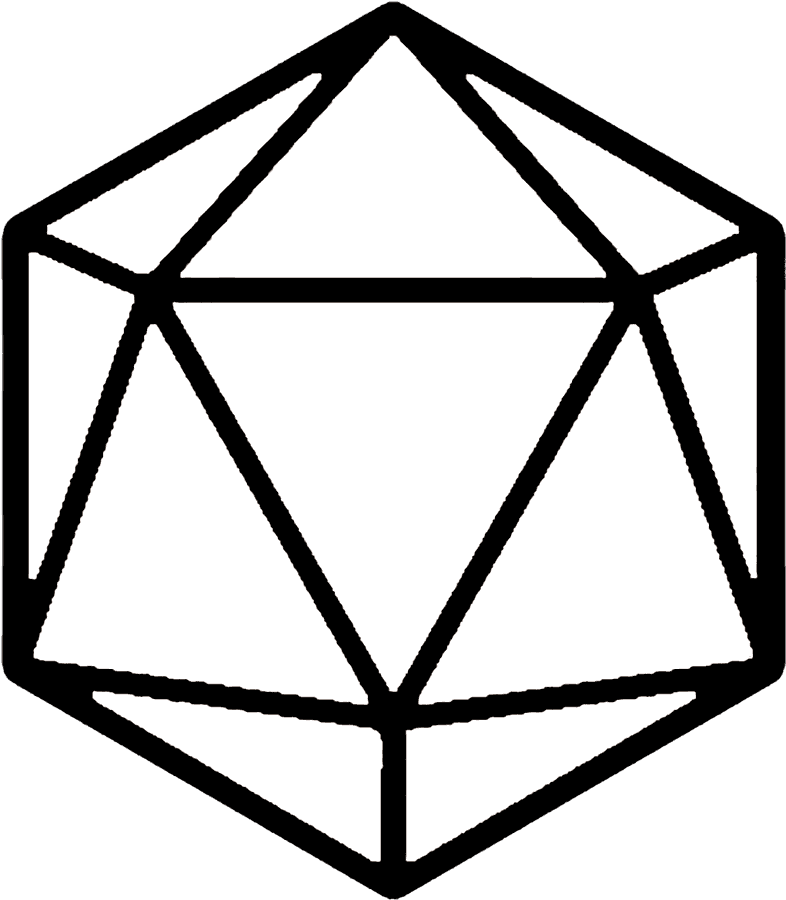
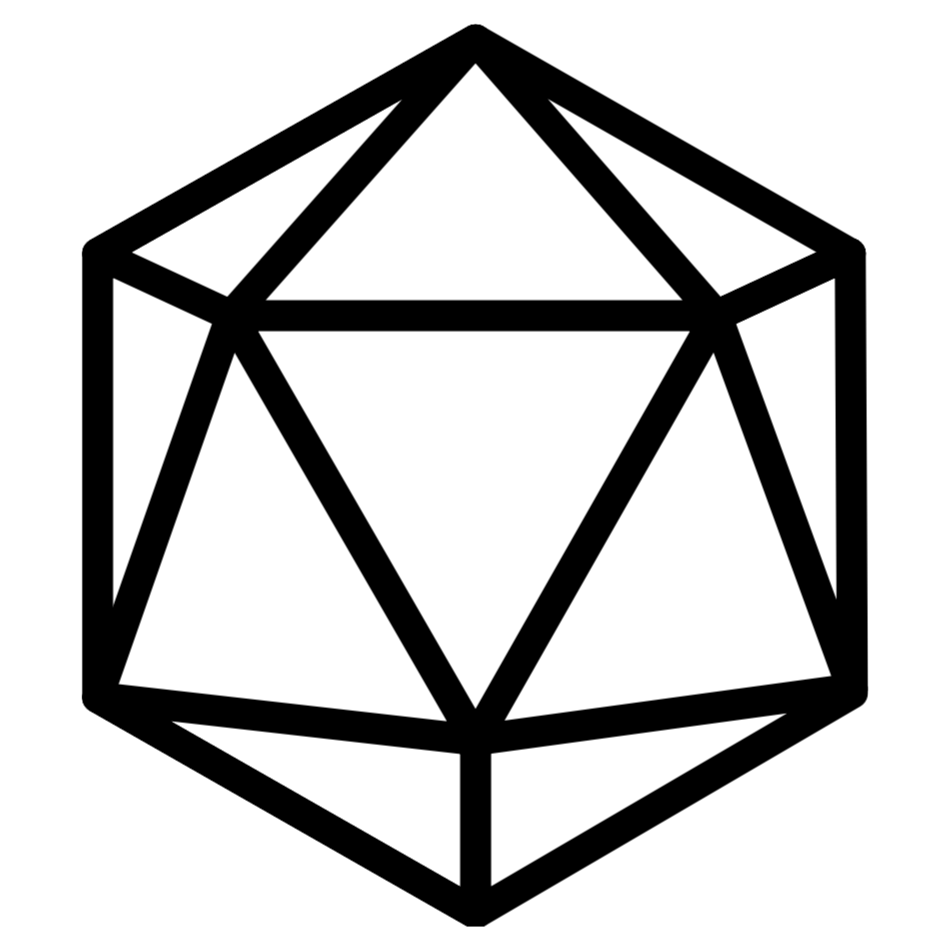
feat: progresso na pagina inicial

diff --git a/public/style.css b/public/style.css
@@ -176,7 +176,57 @@ body{
     height: 100%;
 }
 
+.pers-geral{
+    display: flex;
+    flex-direction: column;
+    justify-content: space-around;
+    align-items: center;
+    width: 100vw;
+}
+
 .ficha-stats{
     display: flex;
     justify-content: space-evenly;
+}
+
+.hp{
+    width: 30%;
+
+}
+
+.graf_vida{
+    display: flex;
+    flex-direction: row;
+}
+
+.linha{
+    display: flex;
+    flex-direction: row;
+    justify-content: space-between;
+    align-items: center;
+    margin: 20px;
+    width: 90vw;
+}
+
+.select_personagem{
+    height: 60px;
+    width: 400px;
+}
+
+.dado{
+    background: url(./img/d20.png) no-repeat center center/cover;
+    height: 90px;
+    width: 90px;
+    border-radius: 10px;
+    border-style: solid;
+    border-width: 1px;
+}
+.dado:hover{
+    cursor: pointer;
+}
+
+.atributos{
+    display: flex;
+    justify-content: space-evenly;
+    width: 100vw;
 }

diff --git a/public/personagens.html b/public/personagens.html
@@ -108,19 +108,26 @@
                     <button onclick="add()">Criar Personagem</button>
                 </div>
             </dialog>
-
-            <select id="slct_personagem" oninput="trocaPersonagem()">
-                <option value=""></option>
-                <option value="novo">Novo personagem...</option>
-            </select>
+            <div class="linha">
+                <select id="slct_personagem" oninput="trocaPersonagem()" class="select_personagem">
+                    <option value=""></option>
+                    <option value="novo">Novo personagem...</option>
+                </select>
+                <div class="hp">
+                    <p id="numero_hp">12/12</p>
+                    <div class="graf_vida">
+                        <button>+</button> <canvas id="barra_vida"></canvas> <button>-</button>
+                    </div>
+                </div>
+            </div>
         </div>
-        <div>
-            <button id="btn_forca"></button>
-            <button id="btn_des"></button>
-            <button id="btn_cons"></button>
-            <button id="btn_int"></button>
-            <button id="btn_sab"></button>
-            <button id="btn_car"></button>
+        <div class="atributos">
+            <button id="btn_forca" class="dado">-1</button>
+            <button id="btn_des" class="dado">0</button>
+            <button id="btn_cons" class="dado">+1</button>
+            <button id="btn_int" class="dado">+1</button>
+            <button id="btn_sab" class="dado">+2</button>
+            <button id="btn_car" class="dado">+2</button>
         </div>
         <div>
 
@@ -133,15 +140,15 @@
 
     window.onload = buscarPersonagensPorPlayer()
 
-    function buscarPersonagensPorPlayer(){
-        var aquarios = JSON.parse(sessionStorage.PERSONAGENS);
-        aquarios.forEach(item => {
+    function buscarPersonagensPorPlayer() {
+        var personagens = JSON.parse(sessionStorage.PERSONAGENS);
+        personagens.forEach(item => {
             document.getElementById("slct_personagem").innerHTML += `<option id='${item.id_personagem}'>${item.nome}</option>`
             obterDadosGrafico(item.id)
         });
 
-        if (aquarios.length > 0) {
-            exibirAquario(aquarios[0].id)
+        if (personagens.length > 0) {
+            exibirAquario(personagens[0].id)
         }
     }
 